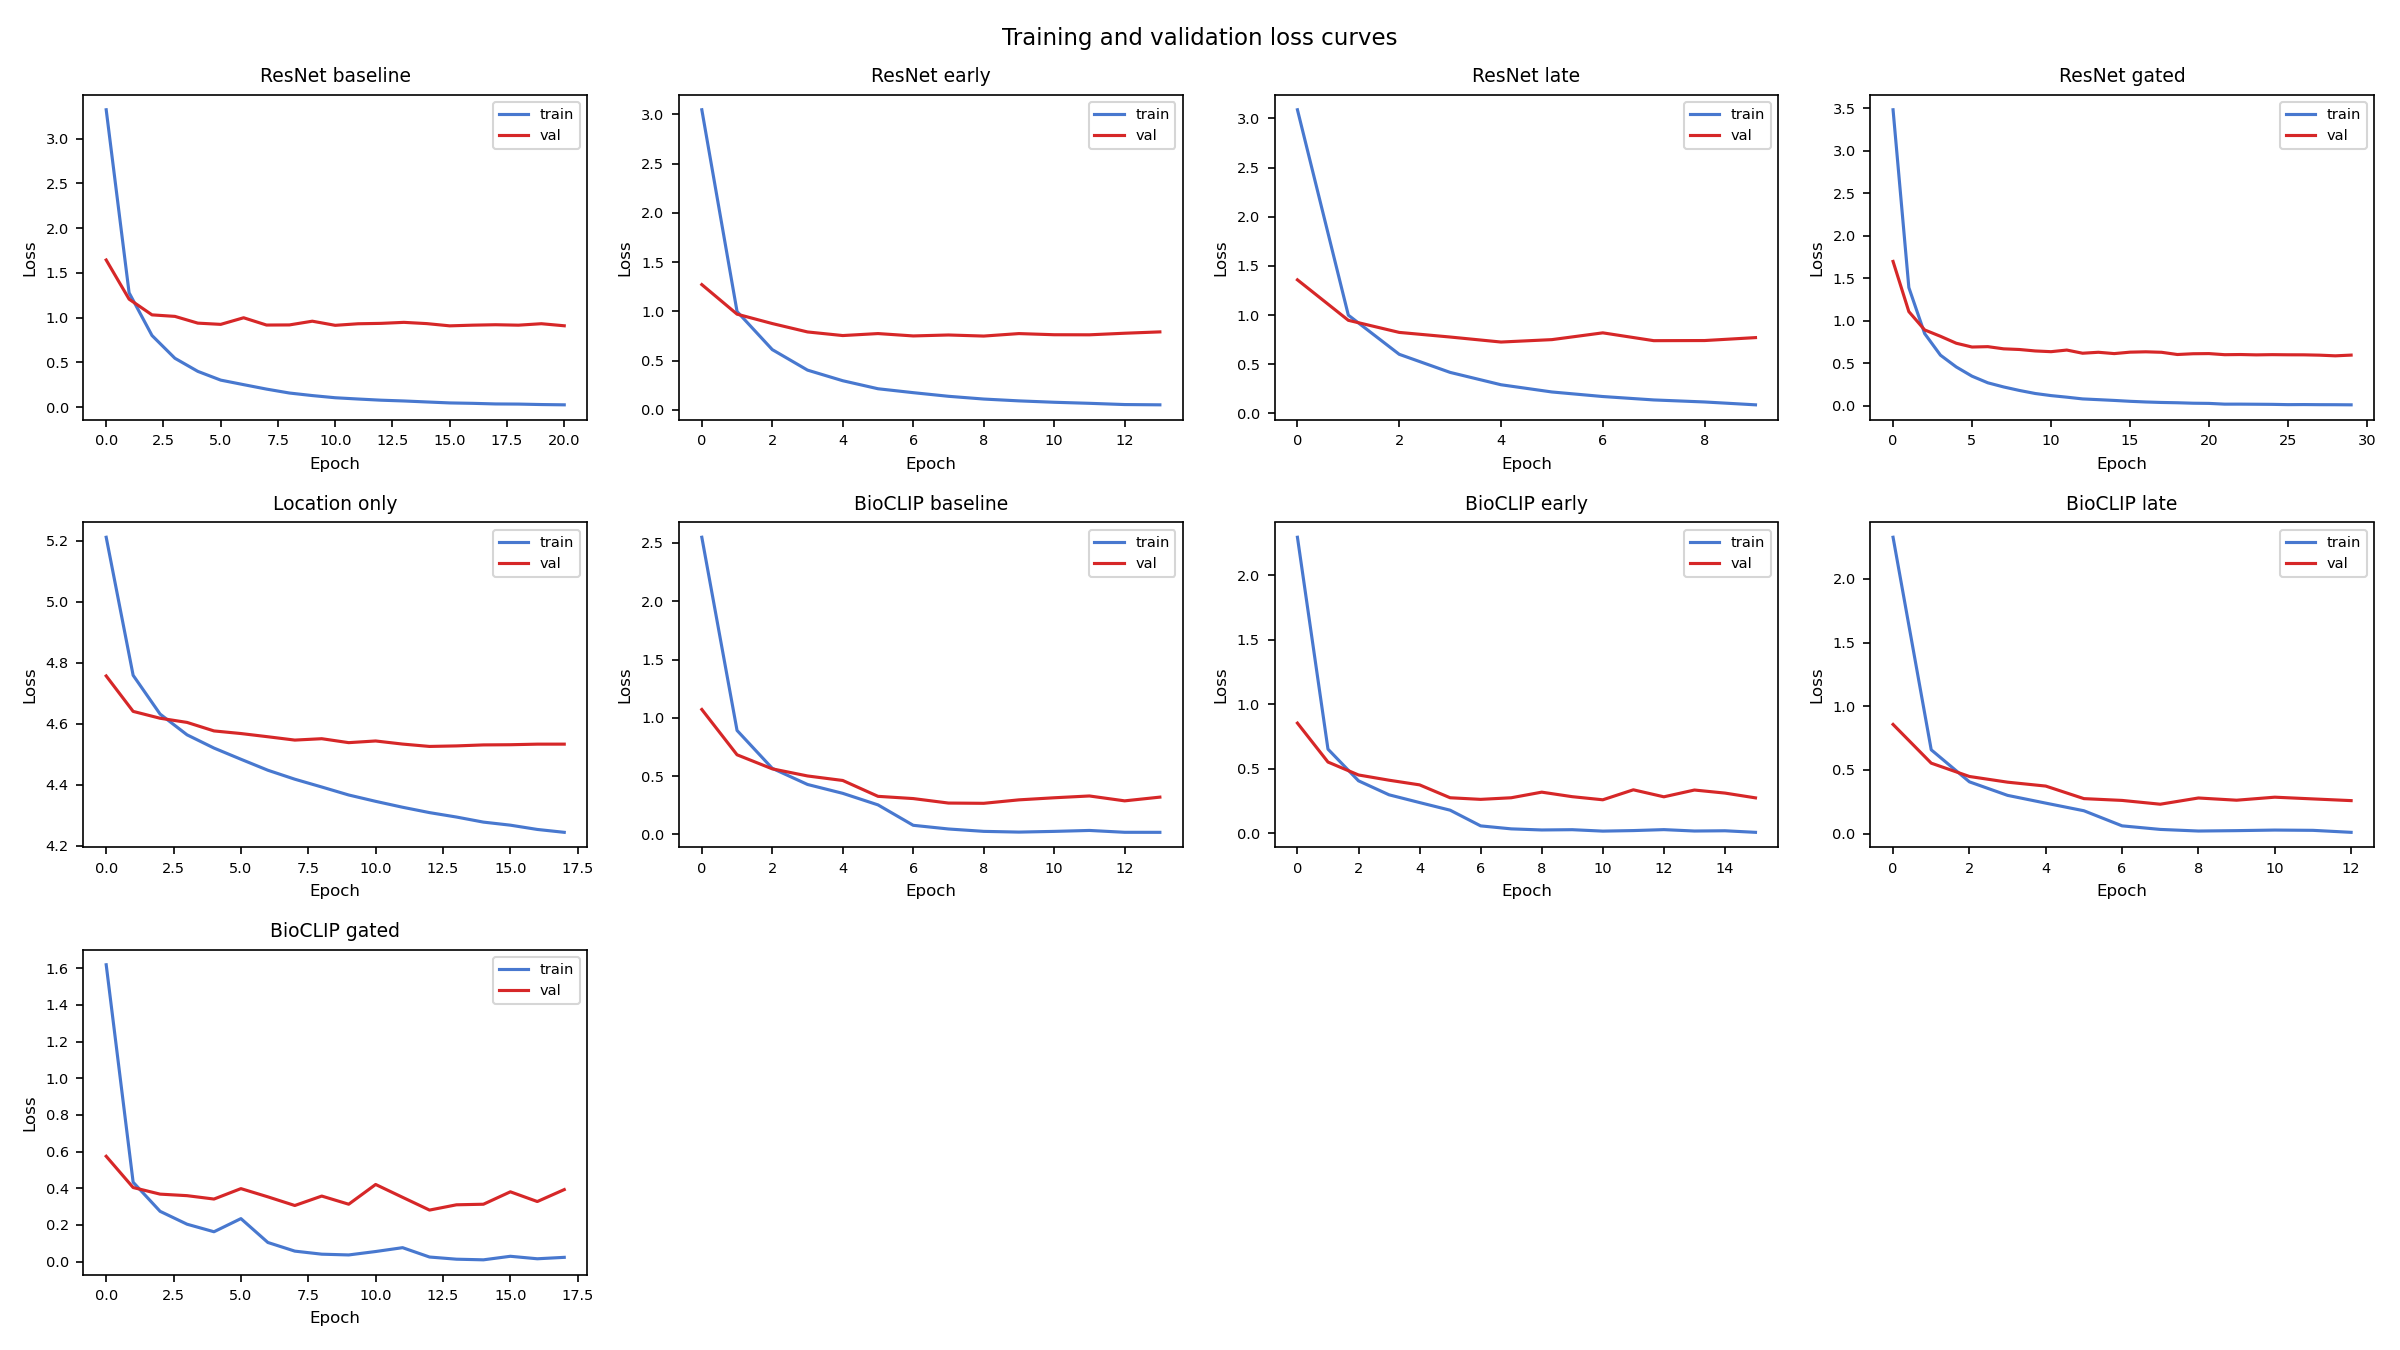
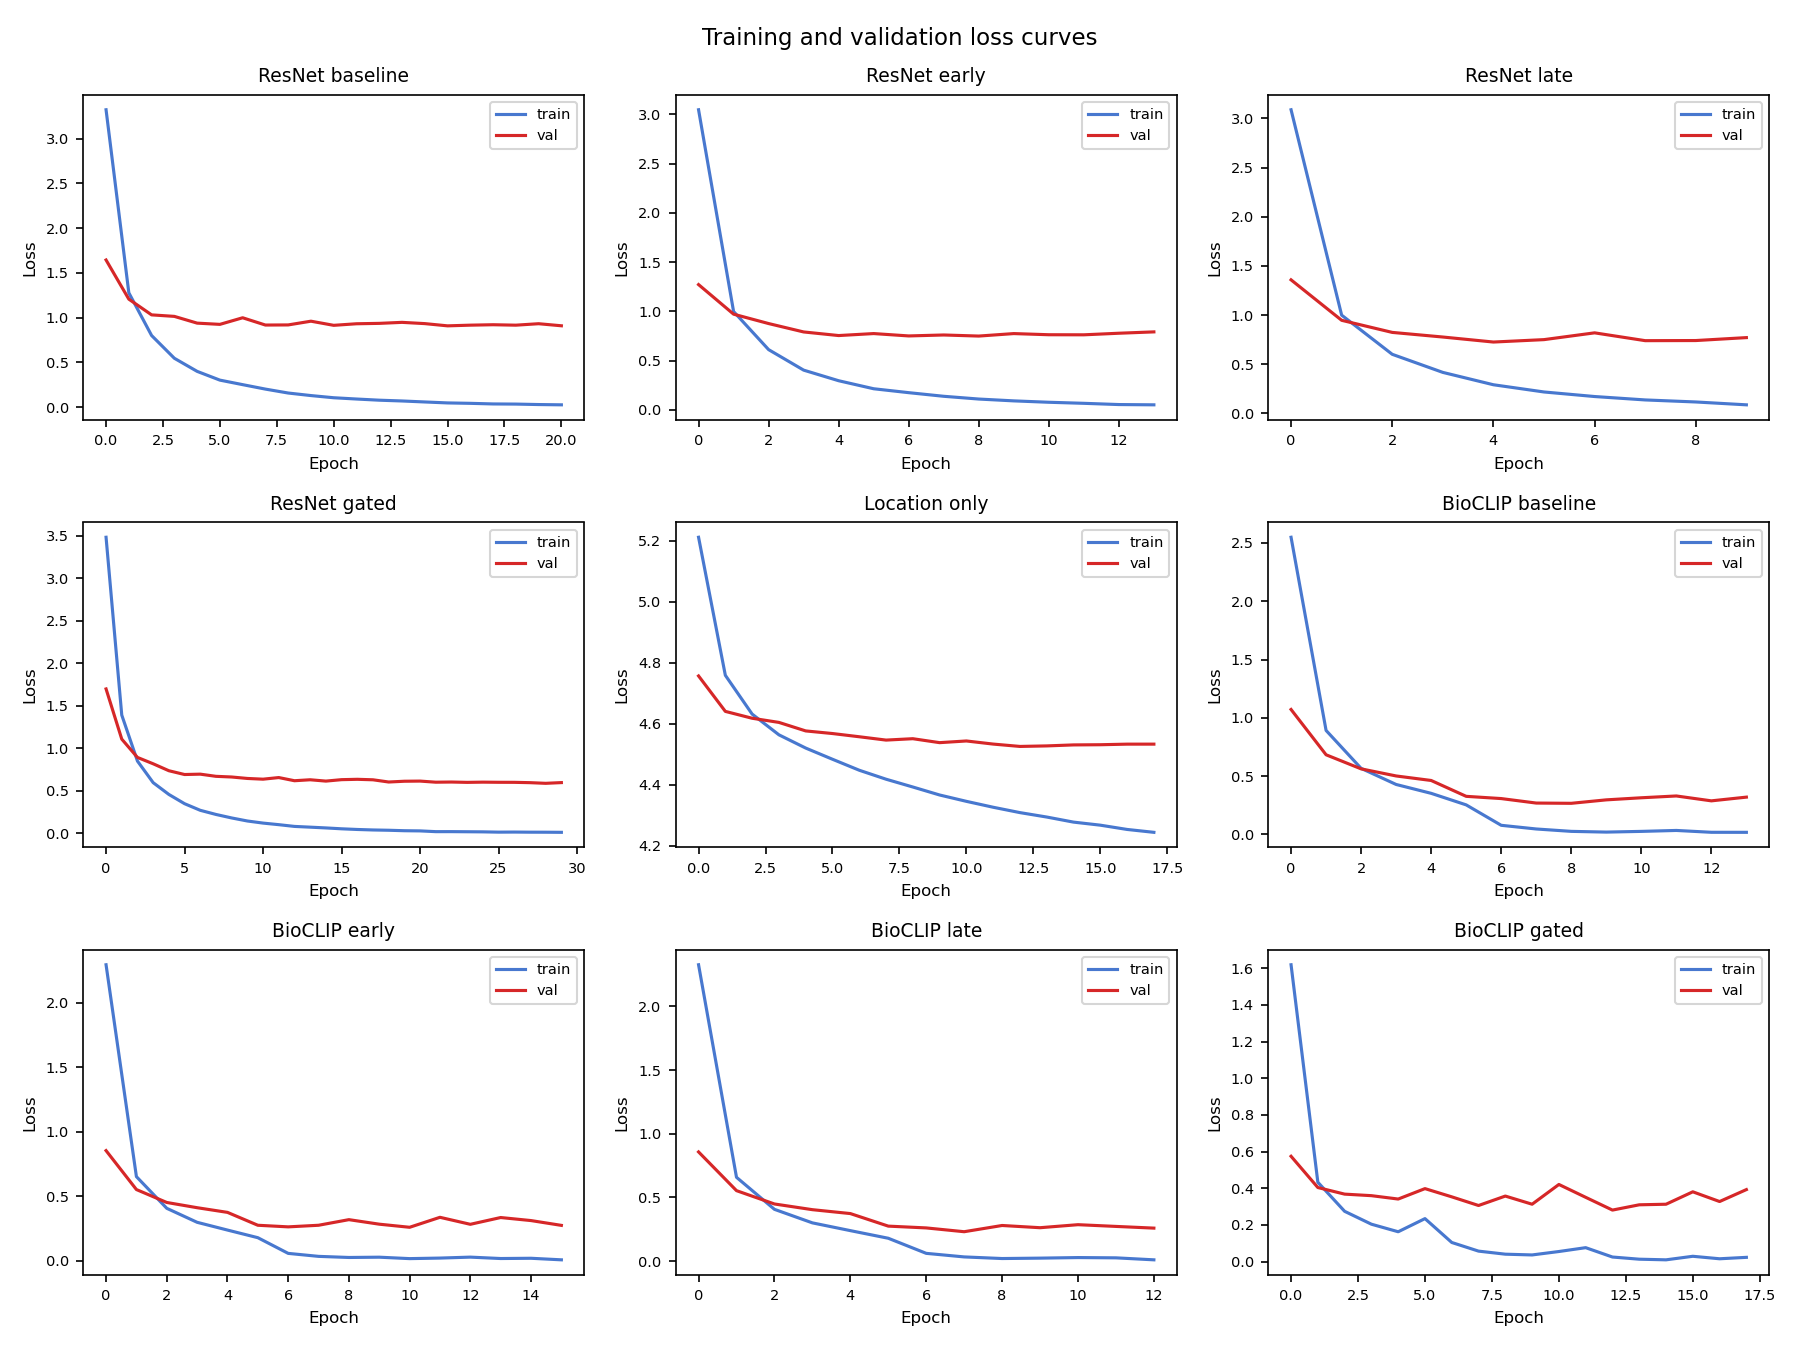
improved the plots, fixed some UI

diff --git a/analysis/evaluate_results.py b/analysis/evaluate_results.py
@@ -136,6 +136,11 @@ def plot_location_gain(metrics):
     ax.set_ylabel("ΔMacro-F1 (fusion - baseline)")
     ax.set_title("Macro-F1 gain from adding location data")
 
+    ymax = max(gains)
+    ymin = min(gains)
+    pad = max(0.01, (ymax - min(0, ymin)) * 0.18)
+    ax.set_ylim(min(0, ymin) - (pad if ymin < 0 else 0), ymax + pad)
+
     for bar, g in zip(bars, gains):
         va  = "bottom" if g >= 0 else "top"
         off = 0.002 if g >= 0 else -0.002
@@ -305,7 +310,7 @@ def plot_learning_curves(histories):
         print("No history.json files found — skipping learning_curves.png")
         return
 
-    ncols = min(4, len(keys))
+    ncols = 3
     nrows = (len(keys) + ncols - 1) // ncols
     fig, axes = plt.subplots(nrows, ncols, figsize=(4 * ncols, 3 * nrows), squeeze=False)
 
